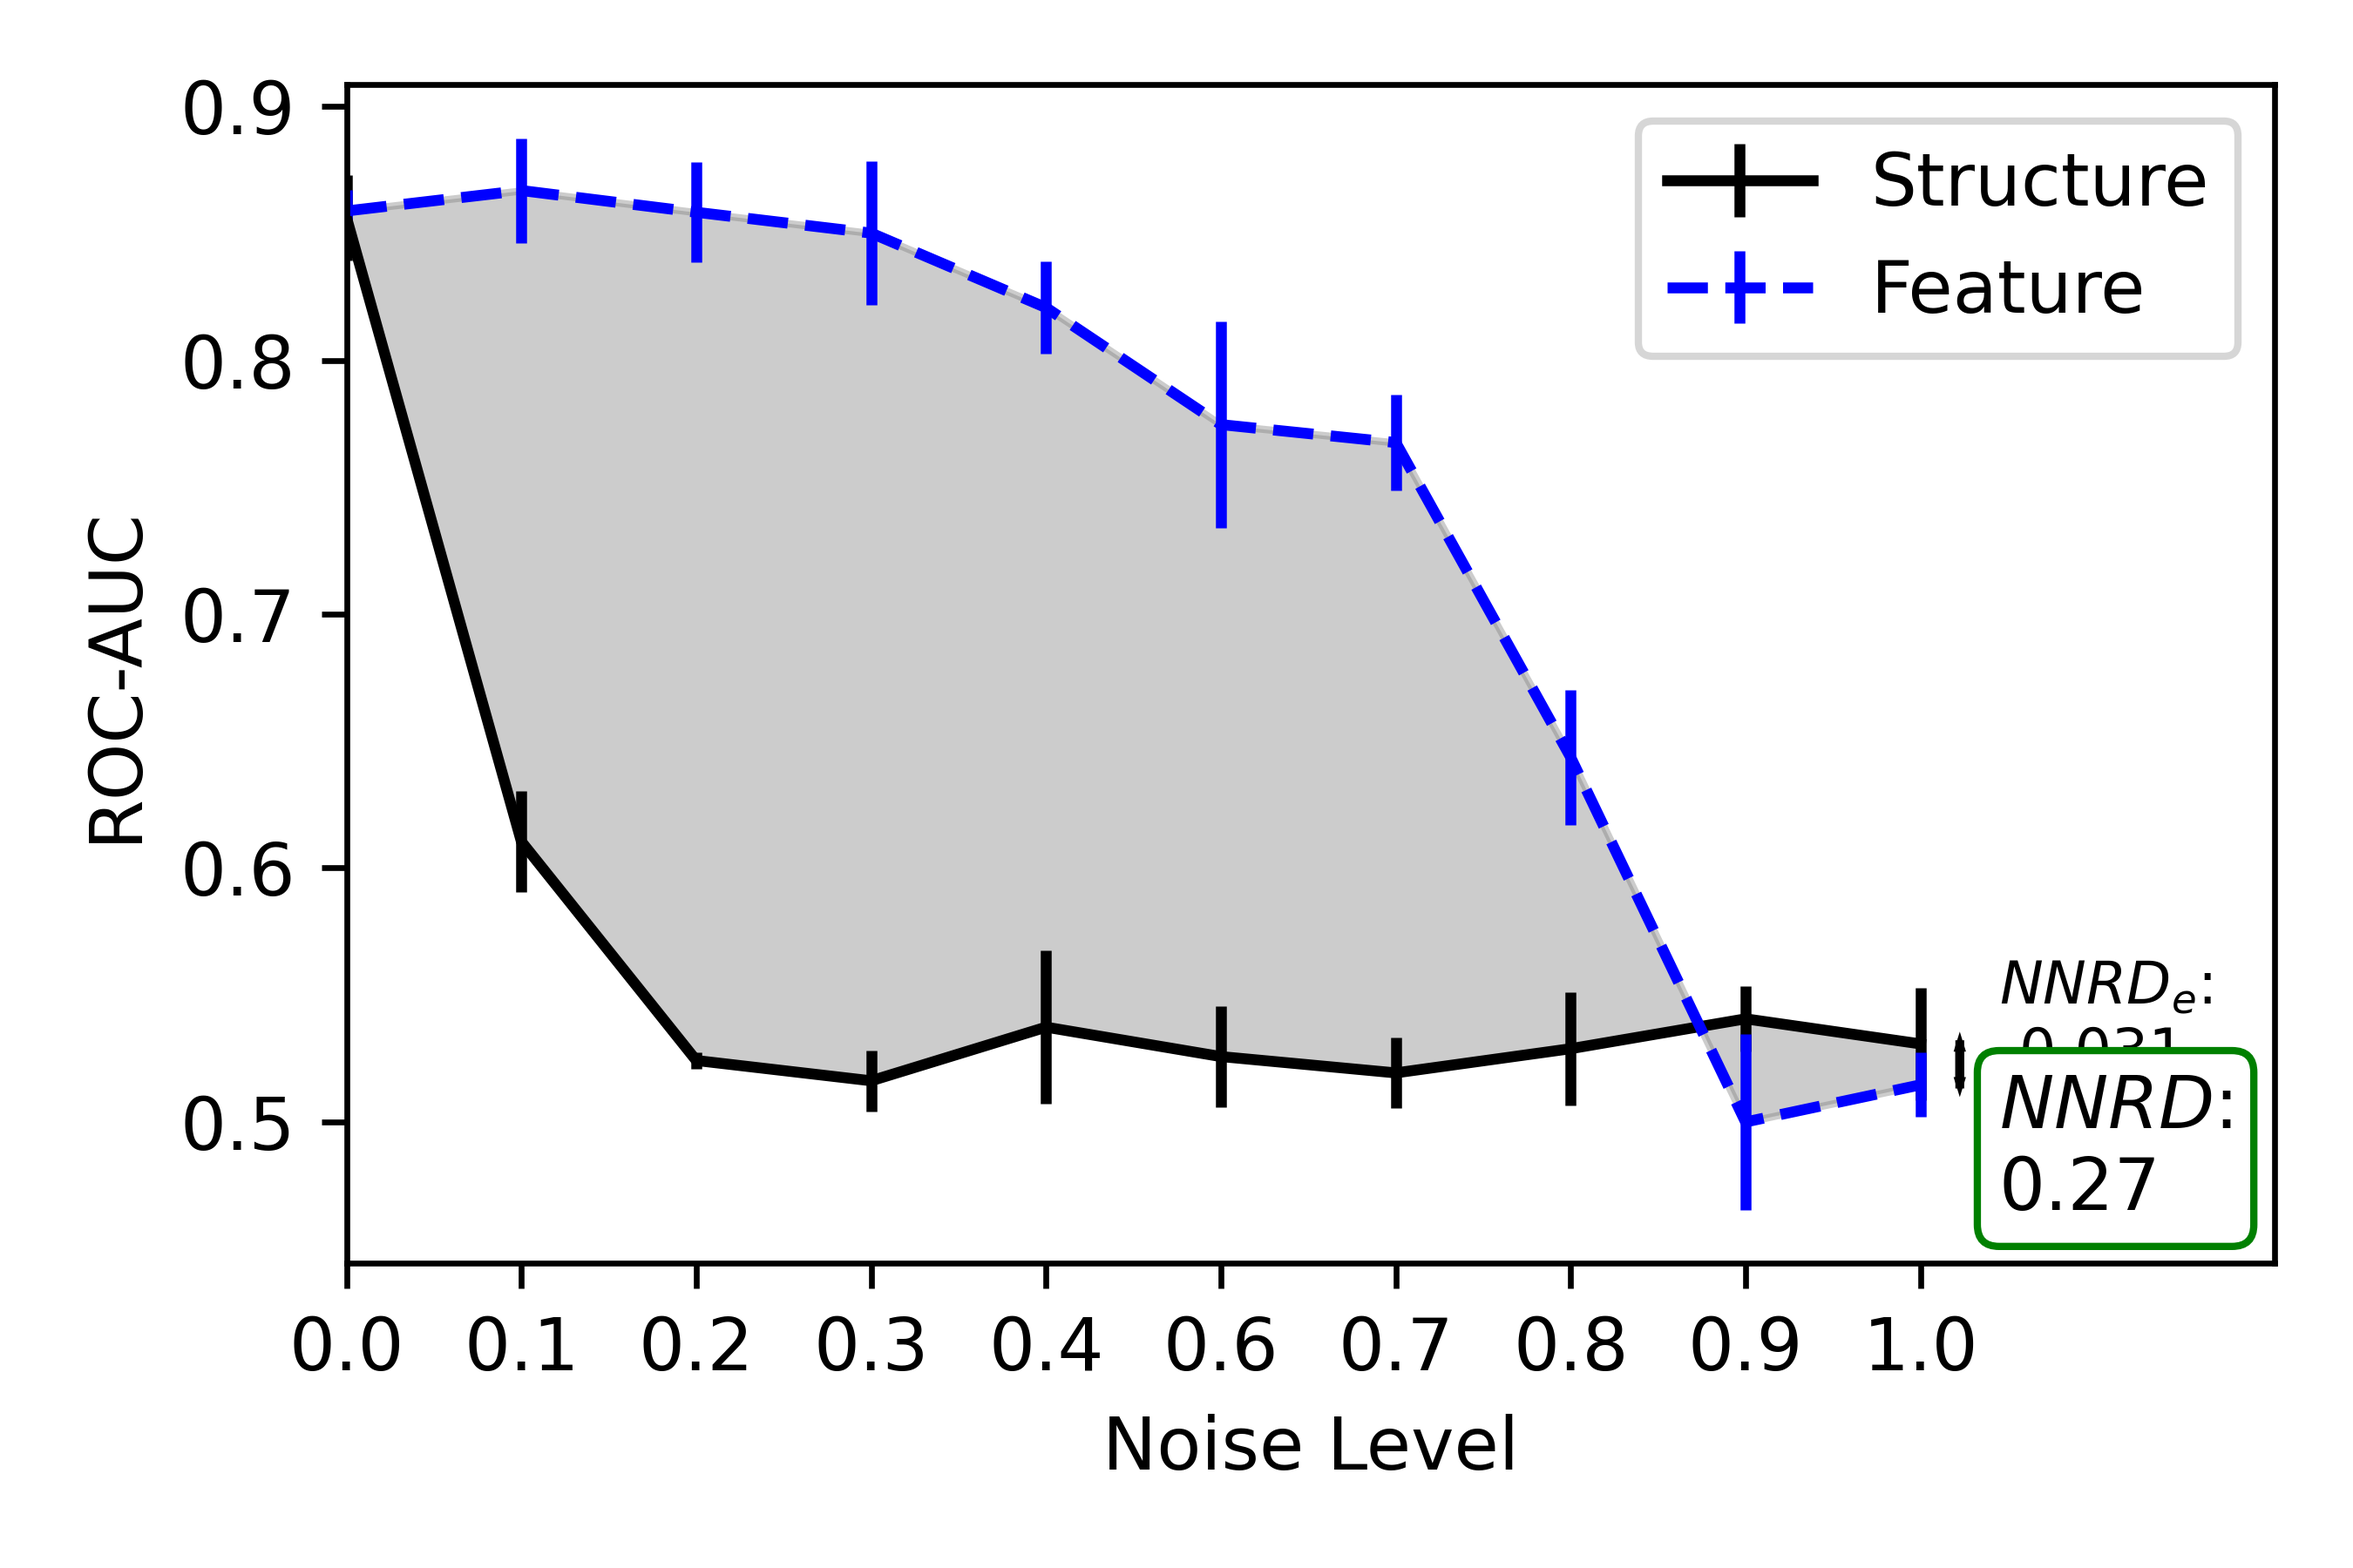
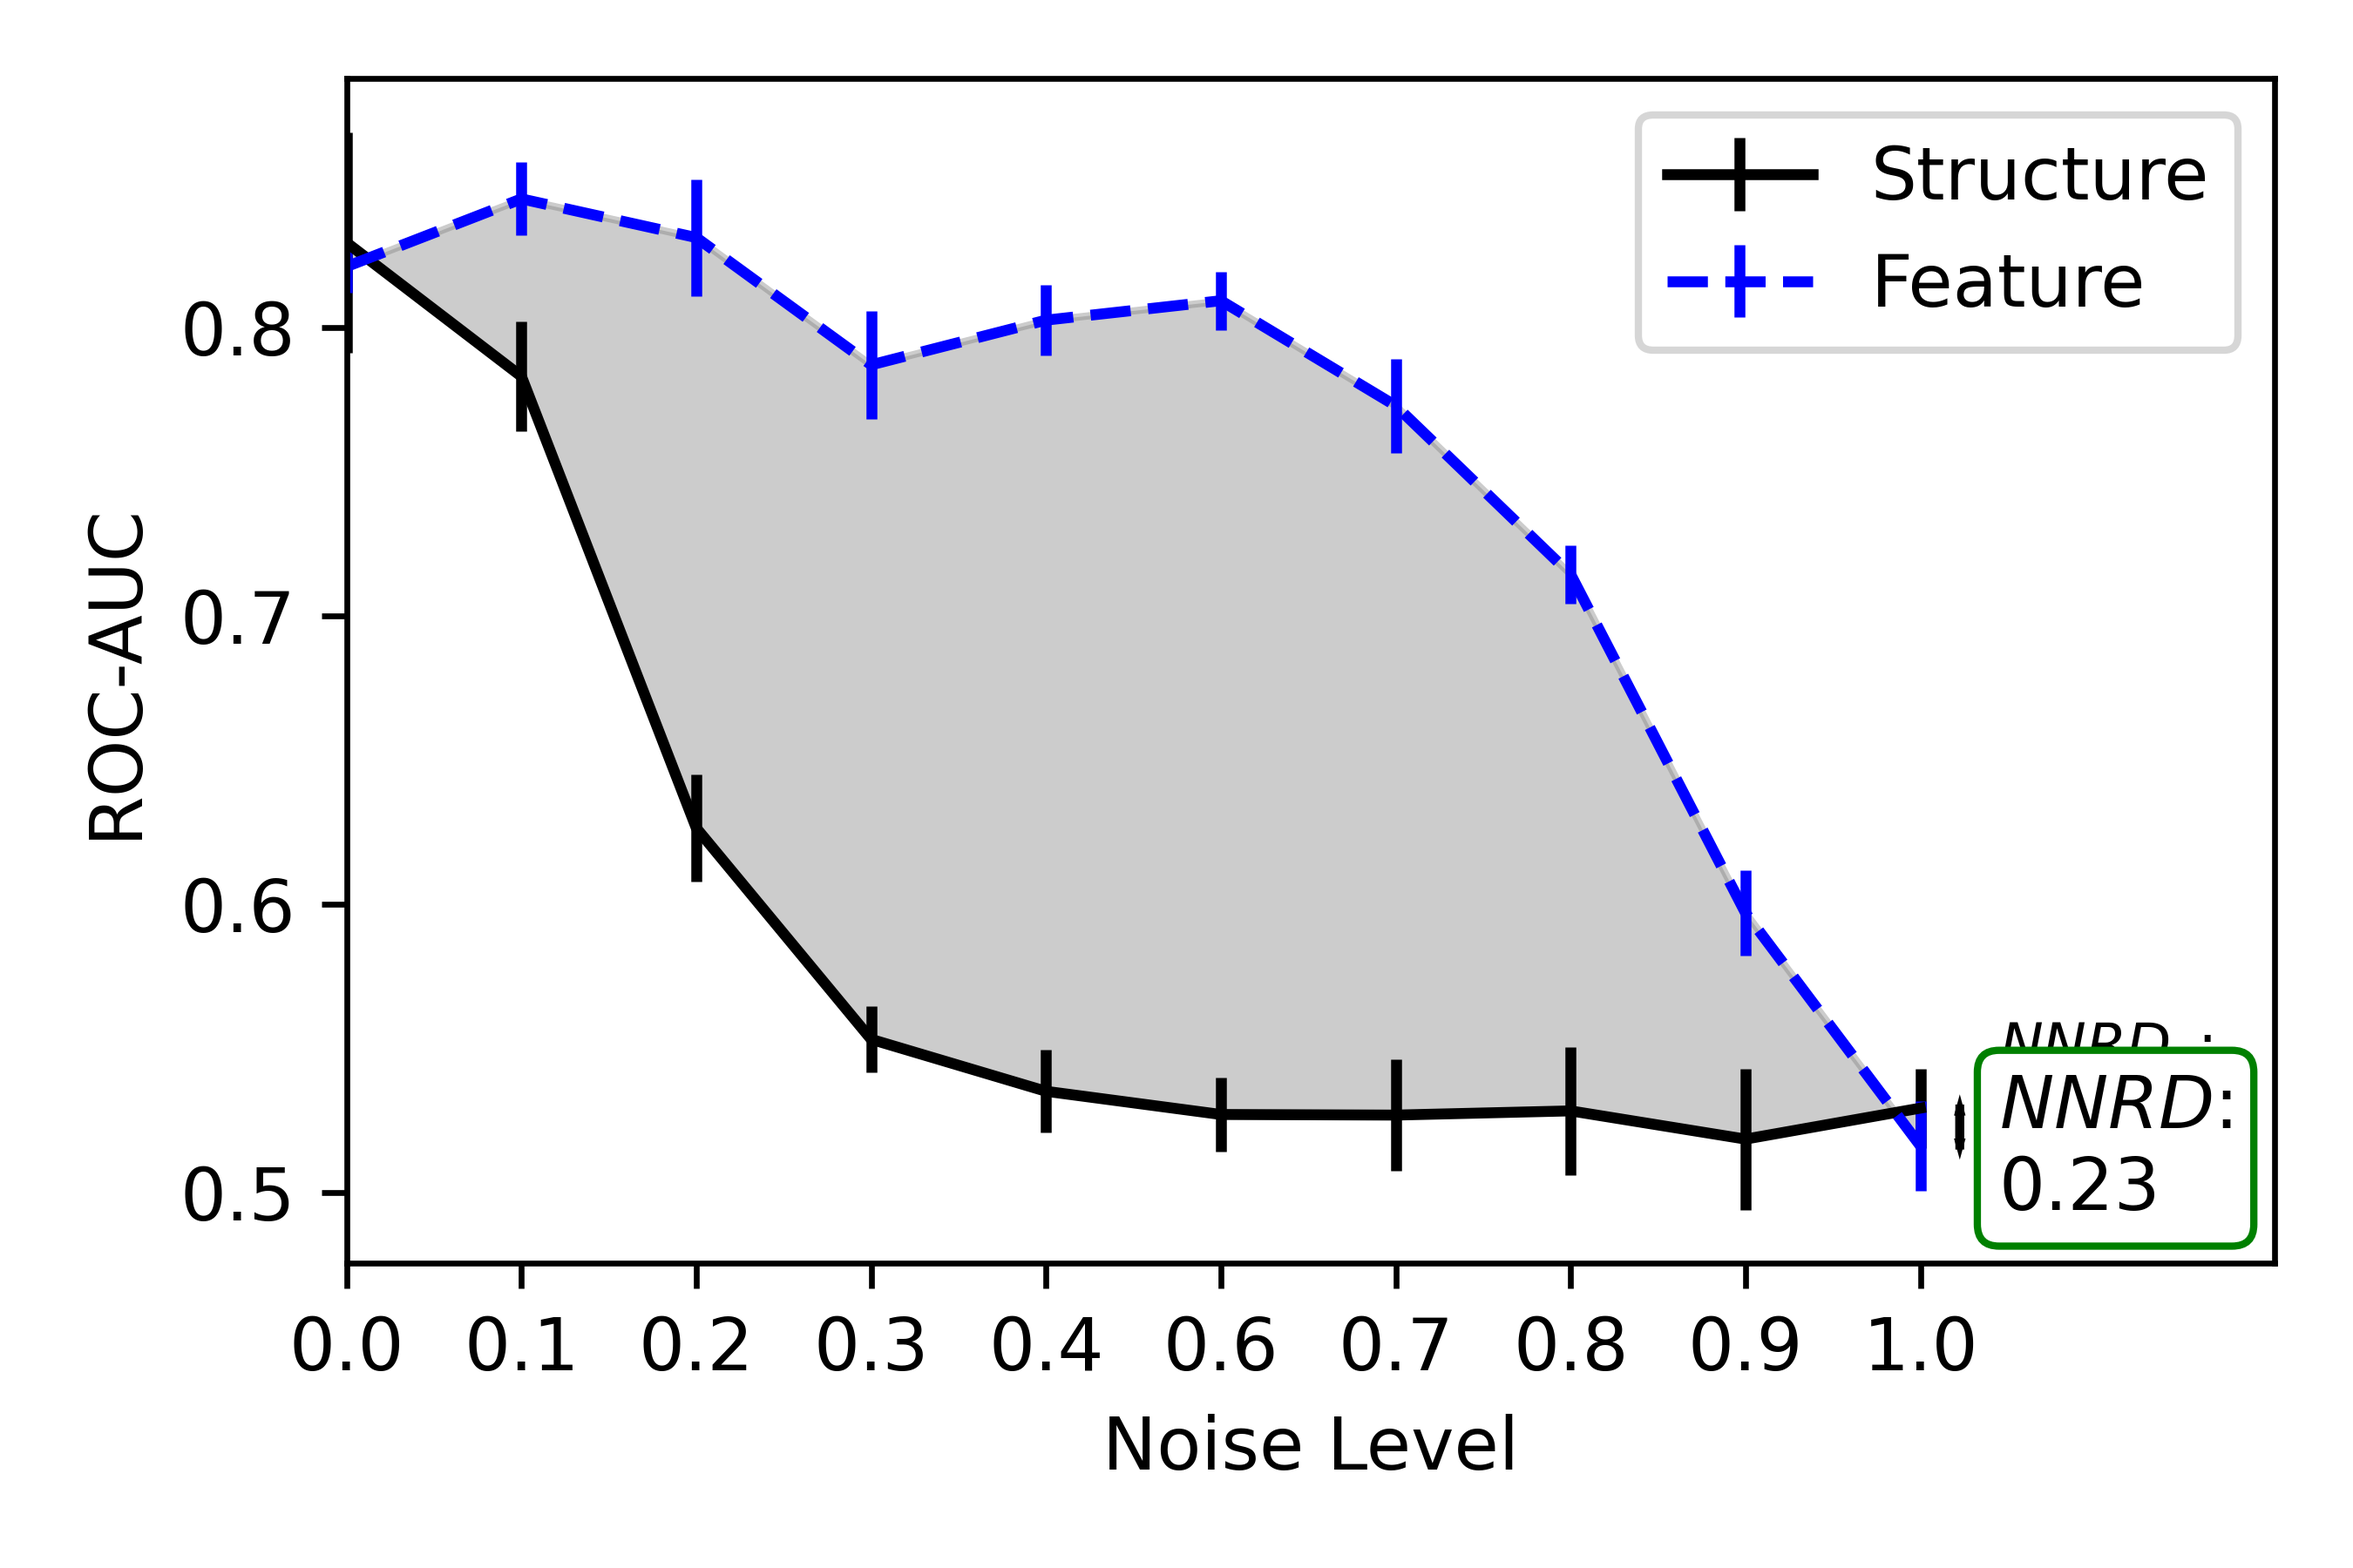
Trying new degree-preserving structural noise

diff --git a/synthetic_datasets.py b/synthetic_datasets.py
@@ -8,6 +8,108 @@ from random import random
 from torch_geometric.data import Data, InMemoryDataset
 from torch_geometric.utils import to_networkx
 import networkx as nx
+import copy
+
+from noisenoise import add_noise_to_dataset
+
+def pyg_to_networkx_connected(pyg_data):
+    """
+    Converts a PyTorch Geometric graph into a NetworkX graph, 
+    dropping unconnected nodes.
+
+    Parameters:
+        pyg_data (torch_geometric.data.Data): The PyG graph data.
+
+    Returns:
+        networkx.Graph: The converted NetworkX graph without isolated nodes.
+    """
+    # Convert PyG graph to NetworkX
+    nx_graph = to_networkx(pyg_data, to_undirected=True)
+
+    # Remove isolated (unconnected) nodes
+    isolated_nodes = list(nx.isolates(nx_graph))
+    nx_graph.remove_nodes_from(isolated_nodes)
+
+    return nx_graph
+
+def get_degree_list(data):
+    edge_index = data.edge_index
+    num_nodes = data.num_nodes
+    degrees = torch.zeros(num_nodes, dtype=torch.long)
+    for i in range(num_nodes):
+        degrees[i] = torch.sum(edge_index == i)/2
+    return degrees
+
+def noise_and_visualise(dataset):
+    n_noise_levels = 8
+    noise_levels = np.linspace(0, 1, n_noise_levels).tolist()
+    fig, axes = plt.subplots(4, n_noise_levels, figsize=(n_noise_levels*2, 8), squeeze=True)
+
+    index_label_0 = 0
+    index_label_1 = 0
+
+    for di, d in enumerate(dataset):
+        if d.y == 0:
+            index_label_0 = di
+            break
+
+    for di, d in enumerate(dataset):
+        if d.y == 1:
+            index_label_1 = di
+            break
+
+    d0 = dataset[index_label_0]
+    d1 = dataset[index_label_1]
+    
+    g0 = pyg_to_networkx_connected(d0)
+    g1 = pyg_to_networkx_connected(d1)
+    pos0 = nx.kamada_kawai_layout(g0)
+    pos1 = nx.kamada_kawai_layout(g1)
+
+    for i, noise in enumerate(noise_levels):
+        noisy_dataset = add_noise_to_dataset(copy.deepcopy(dataset), noise, noise)
+        d0_noisy = noisy_dataset[index_label_0]
+        d1_noisy = noisy_dataset[index_label_1]
+
+        axes[0, i].set_title(f"t= {noise:.2f}")
+
+        g0 = to_networkx(d0_noisy, to_undirected=True)
+        g1 = to_networkx(d1_noisy, to_undirected=True)
+        
+
+        nx.draw_networkx_edges(g0, pos = pos0, ax=axes[0, i], node_size=0, edge_color="gray")
+        nx.draw_networkx_edges(g1, pos = pos1, ax=axes[1, i], node_size=0, edge_color="gray")
+        # nx.draw(pyg_to_networkx_connected(d1_noisy), ax=axes[1, i], node_size=0, edge_color="gray")
+
+        d0_feats = d0_noisy.x.numpy().flatten()
+        d1_feats = d1_noisy.x.numpy().flatten()
+
+        axes[2, i].hist(d0_feats, bins=20, alpha=0.5, label='Class 0')
+        axes[2, i].hist(d1_feats, bins=20, alpha=0.5, label='Class 1')
+
+        axes[3, i].hist(get_degree_list(d0_noisy).numpy(), alpha=0.5, label='Class 0', bins = np.linspace(0,4,12))
+        axes[3, i].hist(get_degree_list(d1_noisy).numpy(), alpha=0.5, label='Class 1', bins = np.linspace(0,4,12))
+
+        for ax in axes[:-1, i]:
+            ax.set_xticks([])  # Remove x-axis ticks
+            ax.set_yticks([])  # Remove y-axis ticks
+            ax.set_frame_on(False)  # Remove the border/frame
+
+        axes[3, i].set_yticks([])  # Remove y-axis ticks
+        # axes[3, i].set_frame_on(False)
+
+        # axes[2,i].set_axis_off()
+
+    axes[0,0].set_ylabel("Ladder Ring", rotation = "vertical")
+    axes[1,0].set_ylabel("Hex Grid", rotation = "vertical")
+    axes[2,0].set_ylabel("Node Features", rotation = "vertical")
+    axes[3,0].set_ylabel("Degrees", rotation = "vertical")
+
+    plt.tight_layout()
+    plt.savefig("synthetic_noise.png", dpi=300)
+    # plt.show()
+
+
 
 def generate_hexagonal_grid_graph(width, height) -> Data:
     """
@@ -185,8 +287,8 @@ class SyntheticDataset(InMemoryDataset):
             # resolution = np.random.randint(2, 4)
             # sphere_edges = 3 * 2 ** (2 * resolution) * 10  # Approximate edge count for sphere
             # triangle_resolution = int(np.round((np.sqrt(2 * sphere_edges / 3) - 1), decimals=0))  # Adjust for edges
-            width = np.random.randint(2, 8)
-            height = np.random.randint(2, 8)
+            width = np.random.randint(3, 4)
+            height = np.random.randint(3, 4)
 
             num_edges = 3*width*height - (width+height+3)/2 + 2*(width + height)
             # num_edges = int(2*np.random.randint(24,256))
@@ -315,25 +417,25 @@ def visualize_graph(data, title="Graph Visualization"):
 if __name__ == "__main__":
     # Generate and load dataset
     dataset = SyntheticDataset(root='data/synthetic', label_type="structure", num_samples=500)
+    noise_and_visualise(dataset)
+    # # Print dataset details
+    # print(dataset)
+    # for i in range(len(dataset)):
+    #     if dataset[i].y == 0:
+    #     # Visualize a couple of graphs from the dataset
+    #         print(torch.mean(dataset[i].x))
+    #         visualize_graph(dataset[i], title=f"Sample Graph 1 {dataset[i].y}")
+    #         break
 
-    # Print dataset details
-    print(dataset)
-    for i in range(len(dataset)):
-        if dataset[i].y == 0:
-        # Visualize a couple of graphs from the dataset
-            print(torch.mean(dataset[i].x))
-            visualize_graph(dataset[i], title=f"Sample Graph 1 {dataset[i].y}")
-            break
-
-    for i in range(len(dataset)):
-        if dataset[i].y == 1:
-        # Visualize a couple of graphs from the dataset
-            print(torch.mean(dataset[i].x))
-            visualize_graph(dataset[i], title=f"Sample Graph 1 {dataset[i].y}")
-            break
-    edges_c1 = [d.num_edges for d in dataset if d.y == 0]
-    edges_c2 = [d.num_edges for d in dataset if d.y == 1]
-    plt.hist(edges_c1, bins=20, alpha=0.5, label='Class 0')
-    plt.hist(edges_c2, bins=20, alpha=0.5, label='Class 1')
-    plt.legend()
-    plt.show()
+    # for i in range(len(dataset)):
+    #     if dataset[i].y == 1:
+    #     # Visualize a couple of graphs from the dataset
+    #         print(torch.mean(dataset[i].x))
+    #         visualize_graph(dataset[i], title=f"Sample Graph 1 {dataset[i].y}")
+    #         break
+    # edges_c1 = [d.num_edges for d in dataset if d.y == 0]
+    # edges_c2 = [d.num_edges for d in dataset if d.y == 1]
+    # plt.hist(edges_c1, bins=20, alpha=0.5, label='Class 0')
+    # plt.hist(edges_c2, bins=20, alpha=0.5, label='Class 1')
+    # plt.legend()
+    # plt.show()

diff --git a/noisenoise/structure_noise.py b/noisenoise/structure_noise.py
@@ -1,5 +1,104 @@
 import torch
 
+import random
+
+def add_structure_noise_degree_preserving(data, t):
+    """
+    Add structure noise via degree-preserving double edge swaps while moving
+    the corresponding edge attributes along with each edge.
+
+    Parameters:
+    - data: PyTorch Geometric data object with attributes:
+          - edge_index: LongTensor of shape [2, E] containing unique edges 
+            (each undirected edge appears once as (u,v) with u < v).
+          - (optionally) edge_attr: Tensor of edge attributes.
+          - num_nodes: Number of nodes in the graph.
+    - t: Noise level (float in [0, 1]). The number of attempted swaps is
+         proportional to t * (number of unique edges).
+
+    Returns:
+    - data: The data object with a rewired edge_index (and updated edge_attr).
+    """
+
+    # Extract existing edges and attributes (if present)
+    edge_index = data.edge_index
+    edge_attr = data.edge_attr if hasattr(data, 'edge_attr') else None
+    num_nodes = data.num_nodes
+
+    # Build a list of unique edges (as (u,v) with u < v) and a parallel list of attributes.
+    edges = []
+    edge_attr_list = [] if edge_attr is not None else None
+
+    num_edges = edge_index.size(1)
+    for i in range(num_edges):
+        u = int(edge_index[0, i])
+        v = int(edge_index[1, i])
+        # Ensure a canonical ordering (u < v)
+        if u > v:
+            u, v = v, u
+        edges.append((u, v))
+        if edge_attr is not None:
+            edge_attr_list.append(edge_attr[i])
+
+    # Determine the number of swaps to attempt.
+    num_swaps = int(t * len(edges))
+    swaps_done = 0
+    attempts = 0
+    max_attempts = num_swaps * 10  # safeguard against infinite loops
+
+    while swaps_done < num_swaps and attempts < max_attempts:
+        attempts += 1
+        # Randomly select two distinct edges.
+        idx1, idx2 = random.sample(range(len(edges)), 2)
+        u, v = edges[idx1]
+        w, x = edges[idx2]
+
+        # To preserve degrees, ensure the four nodes are distinct.
+        if len({u, v, w, x}) != 4:
+            continue
+
+        # Option 1: new edges (u, w) and (v, x)
+        new_edge1_opt1 = (min(u, w), max(u, w))
+        new_edge2_opt1 = (min(v, x), max(v, x))
+        if new_edge1_opt1 in edges or new_edge2_opt1 in edges:
+            # Option 2: try (u, x) and (v, w)
+            new_edge1_opt2 = (min(u, x), max(u, x))
+            new_edge2_opt2 = (min(v, w), max(v, w))
+            if new_edge1_opt2 in edges or new_edge2_opt2 in edges:
+                continue  # both options create duplicate edges; skip this swap.
+            else:
+                new_edge1, new_edge2 = new_edge1_opt2, new_edge2_opt2
+        else:
+            new_edge1, new_edge2 = new_edge1_opt1, new_edge2_opt1
+
+        # Valid swap found: perform the swap.
+        # The edge attribute associated with the edge stays with it.
+        edges[idx1] = new_edge1  # carries over the original attribute at idx1
+        edges[idx2] = new_edge2  # carries over the original attribute at idx2
+        swaps_done += 1
+
+    # Rebuild the full (symmetric) edge_index.
+    # For each unique undirected edge, add both (u,v) and (v,u).
+    row, col = [], []
+    new_edge_attr_list = [] if edge_attr is not None else None
+
+    for i, (u, v) in enumerate(edges):
+        row.extend([u, v])
+        col.extend([v, u])
+        if edge_attr is not None:
+            # Duplicate the attribute so that both (u,v) and (v,u) have the same attribute.
+            attr = edge_attr_list[i]
+            new_edge_attr_list.extend([attr, attr])
+
+    new_edge_index = torch.tensor([row, col], dtype=torch.long)
+    data.edge_index = new_edge_index
+
+    if edge_attr is not None:
+        # Stack the list of edge attributes into a tensor.
+        data.edge_attr = torch.stack(new_edge_attr_list, dim=0)
+
+    return data
+
 def add_structure_noise(data, t):
     """
     Add edge noise in a diffusion-like process: edges are randomly dropped and added based on the diffusion time step.

diff --git a/noisenoise/functions.py b/noisenoise/functions.py
@@ -1,10 +1,10 @@
 import torch
 from tqdm import tqdm
 from .feature_noise import add_continuous_feature_noise, add_discrete_feature_noise, shuffle_categorical_feature_noise, weighted_categorical_feature_noise, dataset_shuffle_feature_noise, dataset_shuffle_node_feature_noise
-from .structure_noise import add_structure_noise
+from .structure_noise import add_structure_noise, add_structure_noise_degree_preserving
 
 def add_noise_to_graph(data, t_structure, t_feature):
-    data = add_structure_noise(data, t_structure)
+    data = add_structure_noise_degree_preserving(data, t_structure)
     # data = add_discrete_feature_noise(data, t_feature)
     # data = shuffle_categorical_feature_noise(data, t_feature)
     # data = add_continuous_feature_noise(data, t_feature)
